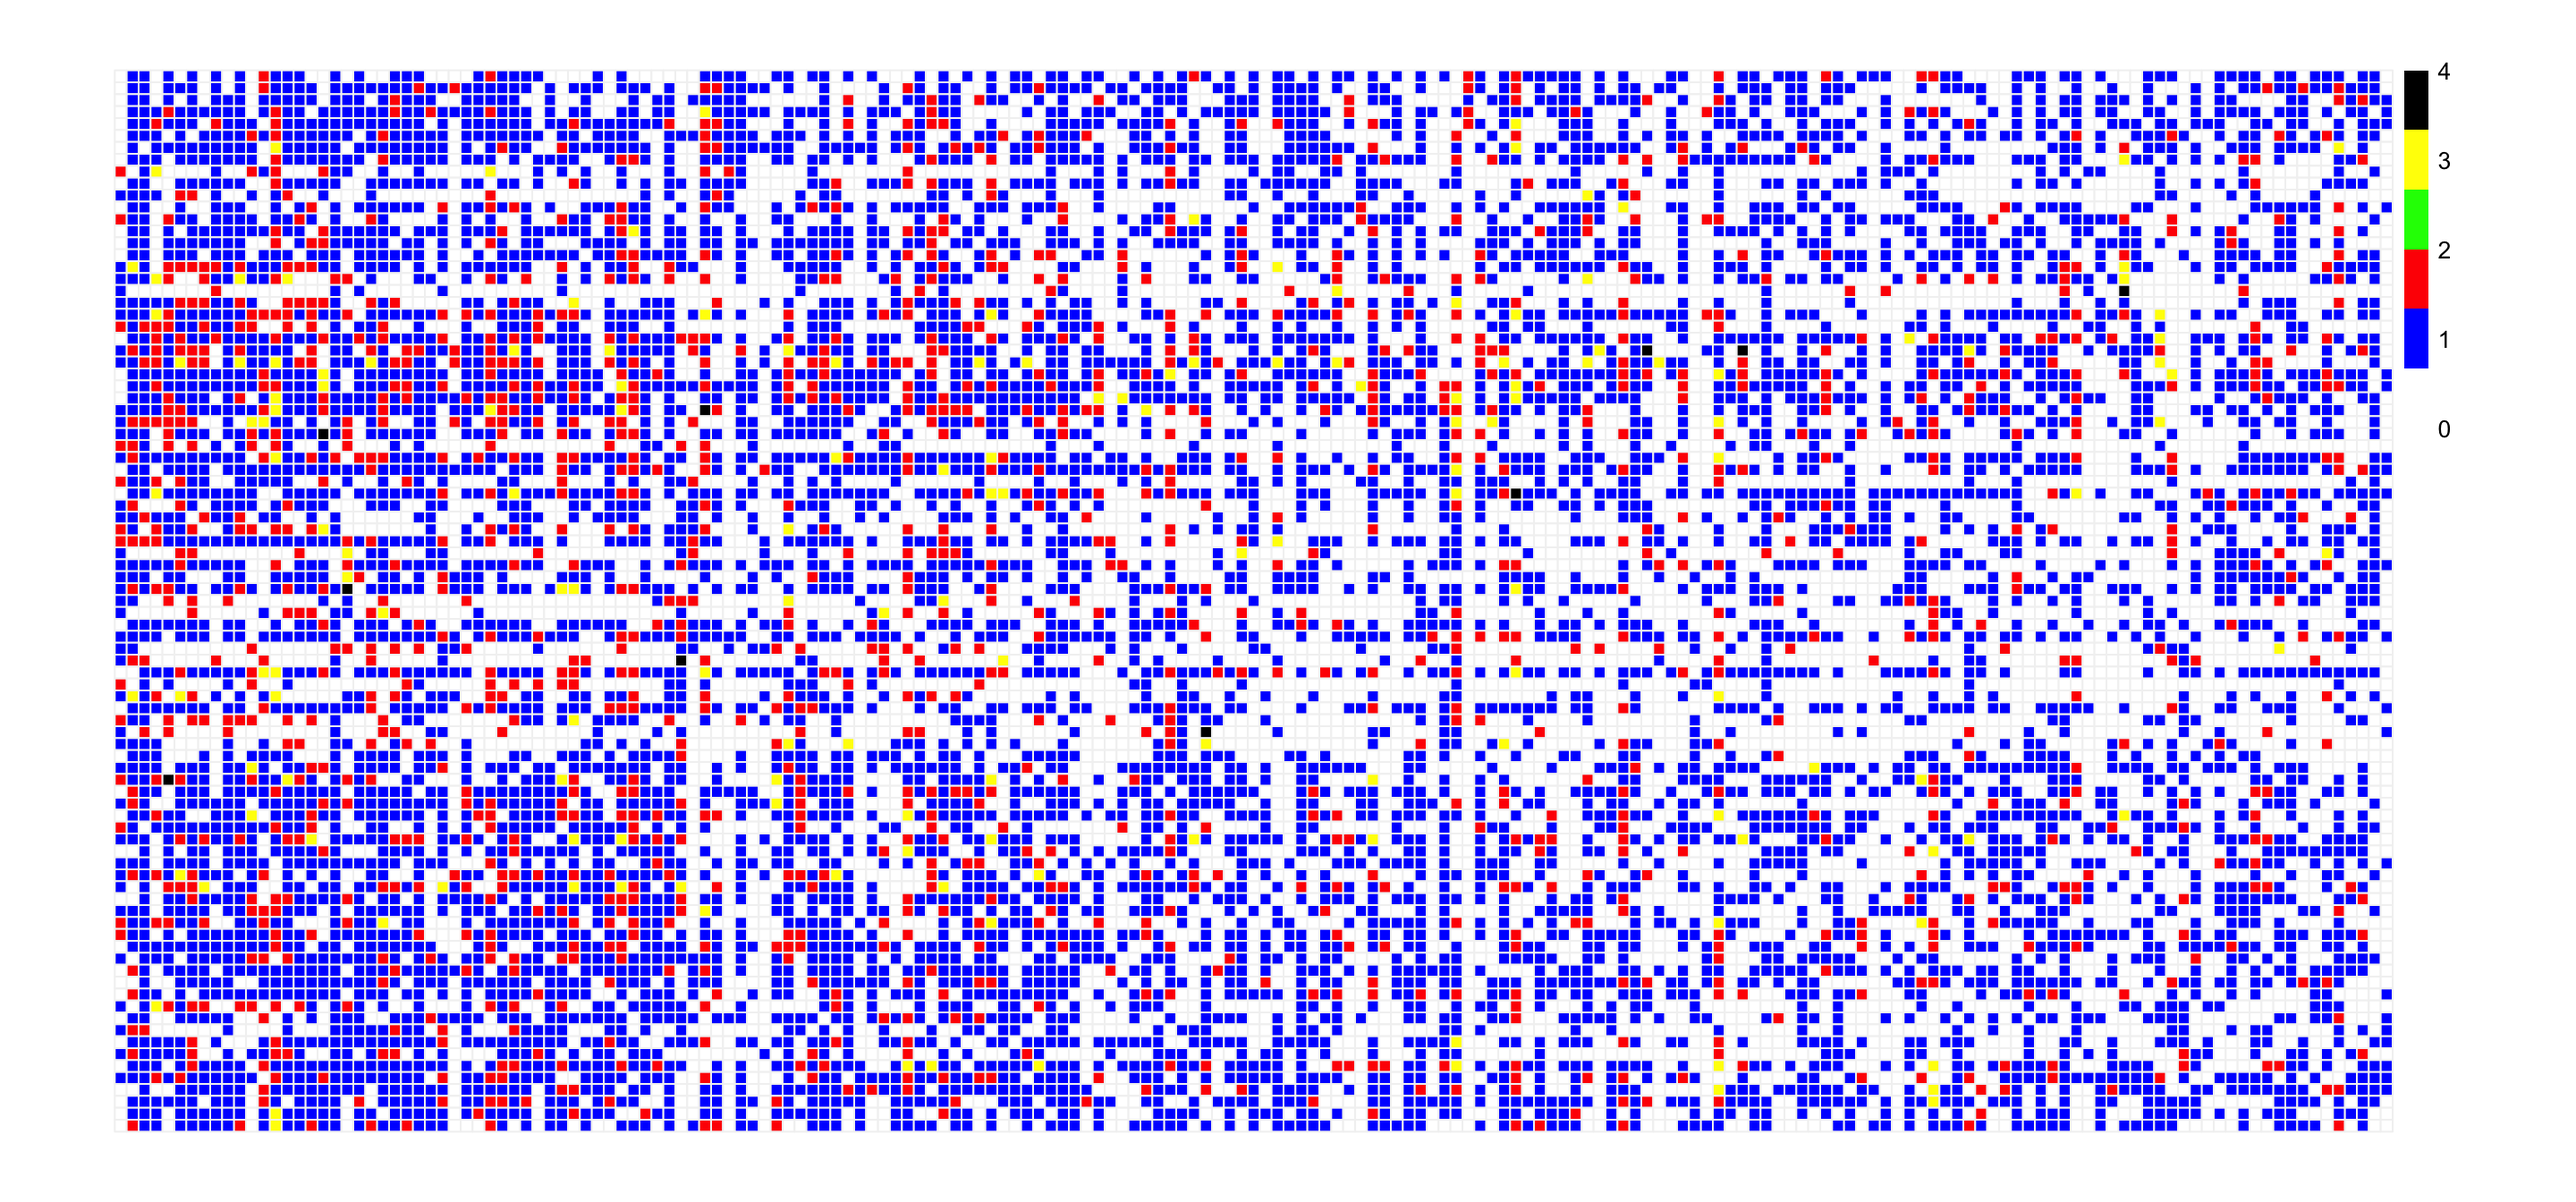
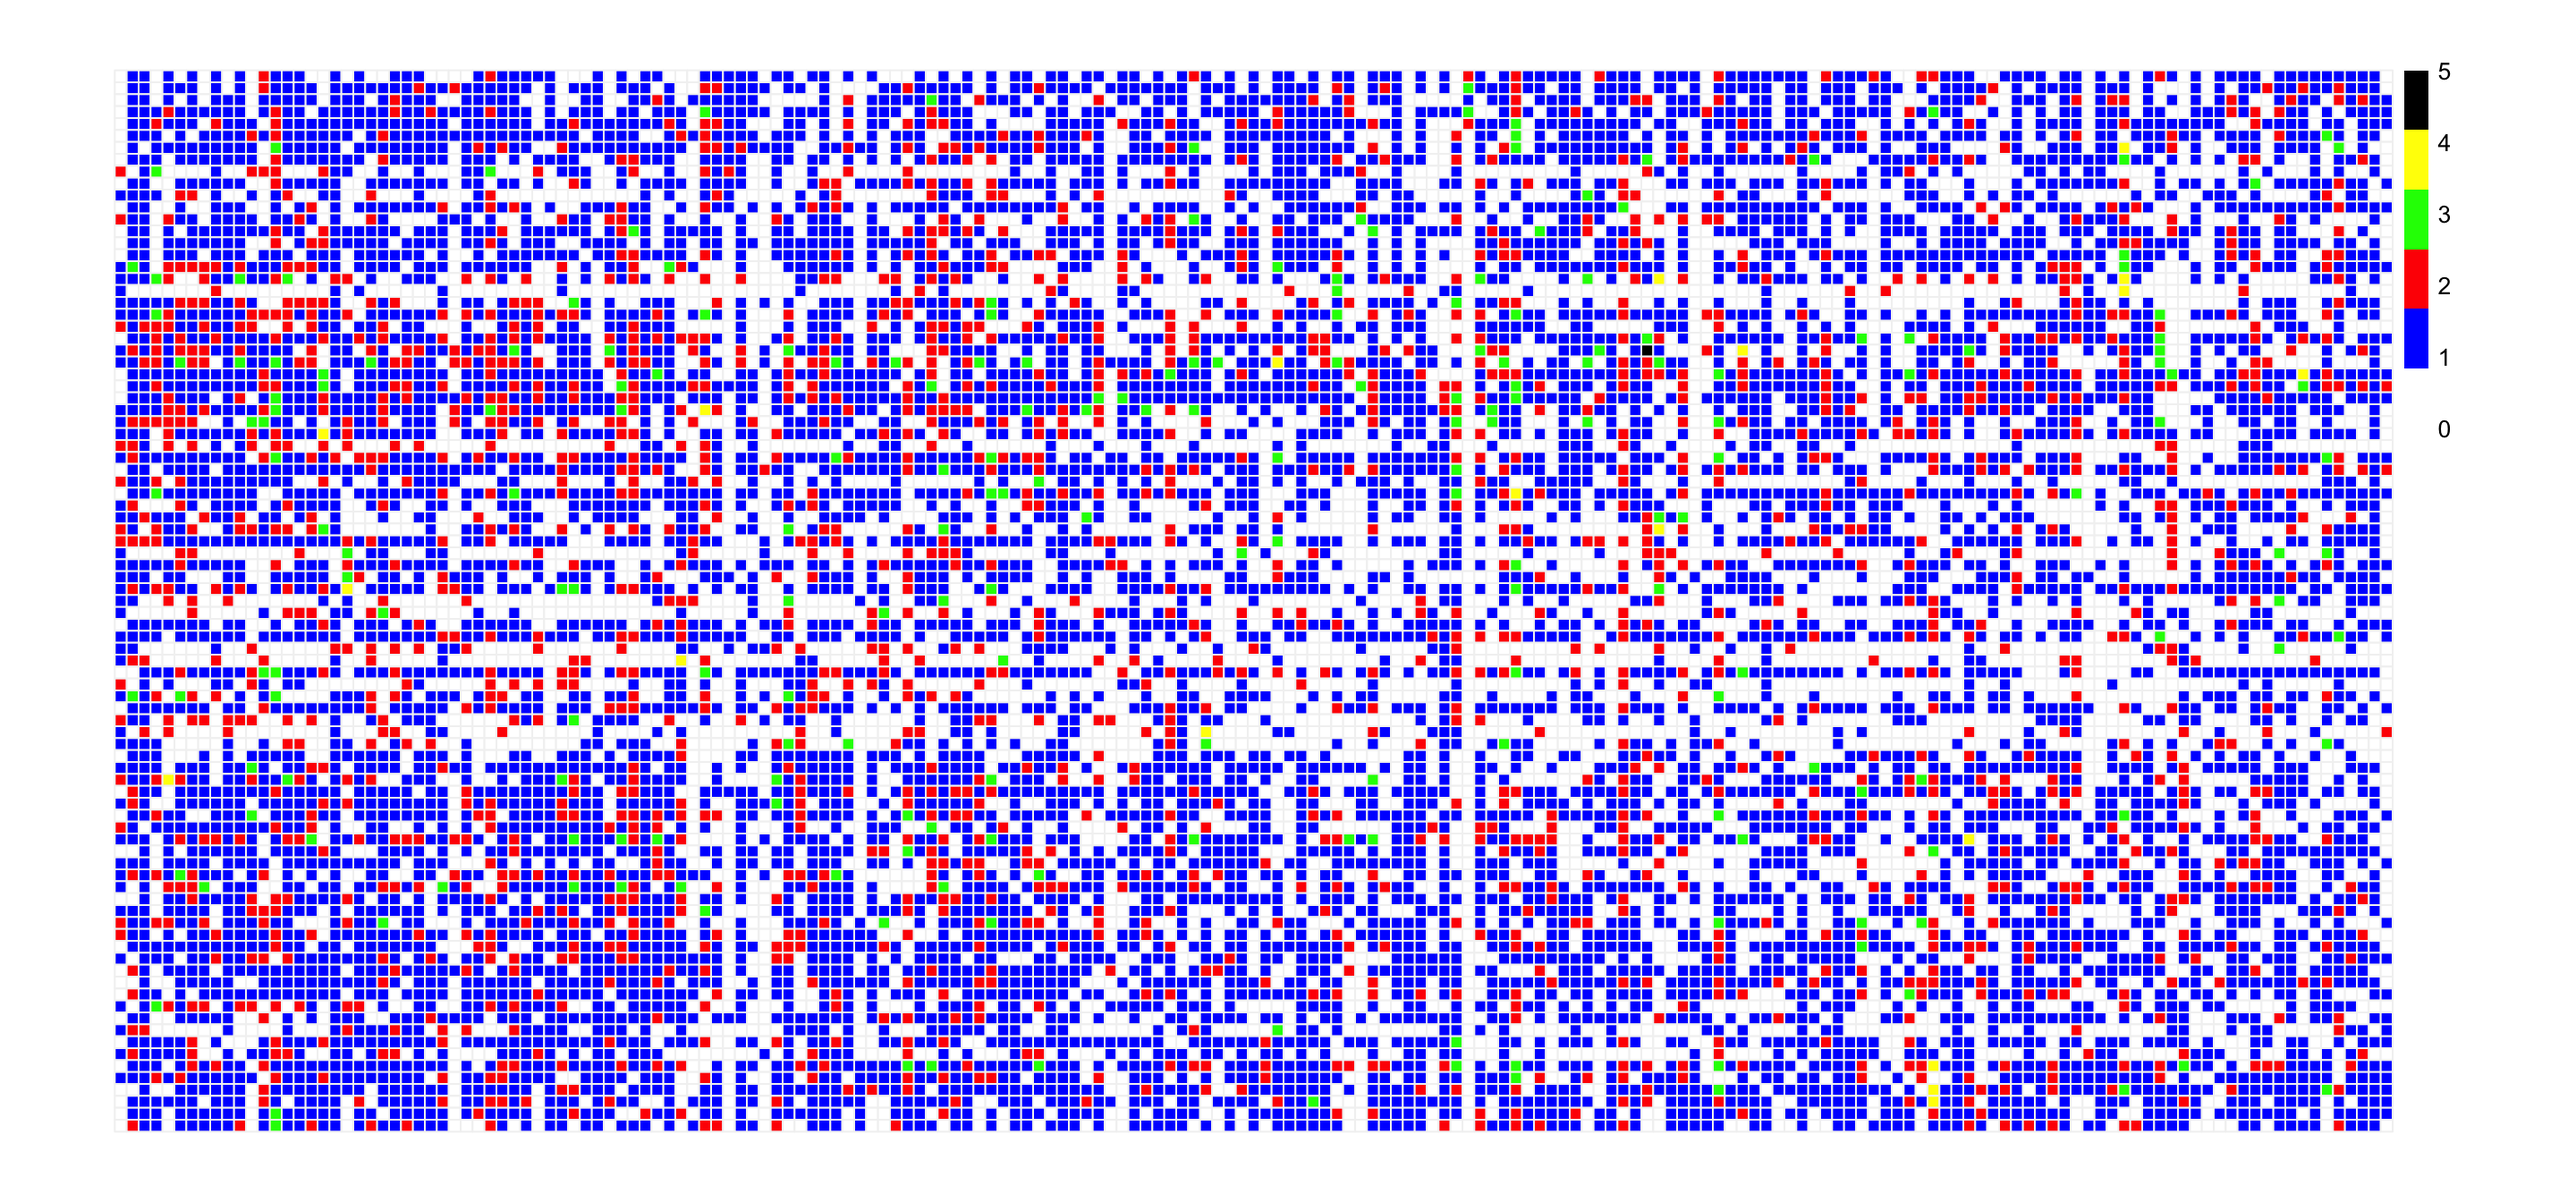
Build site.

diff --git a/docs/191factors.html b/docs/191factors.html
@@ -503,10 +503,10 @@ This reproducible <a href="http://rmarkdown.rstudio.com">R Markdown</a> analysis
 <div class="panel panel-default">
 <div class="panel-heading">
 <p class="panel-title">
-<a data-toggle="collapse" data-parent="#workflowr-checks" href="#strongRepositoryversionstrongahrefhttpsgithubcomjoonsukkangaainttree725798c8991bebcb19d70377eac98a135bed9115targetblank725798ca"> <span class="glyphicon glyphicon-ok text-success" aria-hidden="true"></span> <strong>Repository version:</strong> <a href="https://github.com/joonsukkang/aaint/tree/725798c8991bebcb19d70377eac98a135bed9115" target="_blank">725798c</a> </a>
+<a data-toggle="collapse" data-parent="#workflowr-checks" href="#strongRepositoryversionstrongahrefhttpsgithubcomjoonsukkangaainttree220f4e293ac77bca07abcf6140917fe6ec7c8211targetblank220f4e2a"> <span class="glyphicon glyphicon-ok text-success" aria-hidden="true"></span> <strong>Repository version:</strong> <a href="https://github.com/joonsukkang/aaint/tree/220f4e293ac77bca07abcf6140917fe6ec7c8211" target="_blank">220f4e2</a> </a>
 </p>
 </div>
[2 lines of base64/hex data omitted]
 <div class="panel-body">
 <p>
 Great! You are using Git for version control. Tracking code development and connecting the code version to the results is critical for reproducibility. The version displayed above was the version of the Git repository at the time these results were generated. <br><br> Note that you need to be careful to ensure that all relevant files for the analysis have been committed to Git prior to generating the results (you can use <code>wflow_publish</code> or <code>wflow_git_commit</code>). workflowr only checks the R Markdown file, but you know if there are other scripts or data files that it depends on. Below is the status of the Git repository when the results were generated:
@@ -552,7 +552,6 @@ Untracked files:
 Unstaged changes:
     Modified:   analysis/_site.yml
     Modified:   analysis/flash.Rmd
-    Modified:   analysis/index.Rmd
 
 </code></pre>
 <p>
@@ -596,6 +595,40 @@ Message
 Rmd
 </td>
 <td>
+<a href="https://github.com/joonsukkang/aaint/blob/220f4e293ac77bca07abcf6140917fe6ec7c8211/analysis/191factors.Rmd" target="_blank">220f4e2</a>
+</td>
+<td>
+Joonsuk Kang
+</td>
+<td>
+2020-04-01
+</td>
+<td>
+Investigating the 191 PDZ factors
+</td>
+</tr>
+<tr>
+<td>
+html
+</td>
+<td>
+<a href="https://rawcdn.githack.com/joonsukkang/aaint/679fd0d88b645f55f7ec5be2218456f732831d62/docs/191factors.html" target="_blank">679fd0d</a>
+</td>
+<td>
+Joonsuk Kang
+</td>
+<td>
+2020-04-01
+</td>
+<td>
+Build site.
+</td>
+</tr>
+<tr>
+<td>
+Rmd
+</td>
+<td>
 <a href="https://github.com/joonsukkang/aaint/blob/725798c8991bebcb19d70377eac98a135bed9115/analysis/191factors.Rmd" target="_blank">725798c</a>
 </td>
 <td>
@@ -618,7 +651,6 @@ Investigating the 191 PDZ factors
 <p>This article investigate the 191 factors for PDZ domain data fitted with point normal flashier in <a href="lowrank.html">Tackling Low-rankness of Estimated Precision Matrix</a></p>
 <div id="data" class="section level1">
 <h1>Data</h1>
-<p>The estimates with local false sign rate greater than 0.05 are replaced with zero.</p>
 <pre class="r"><code>library(tidyverse); library(flashier); library(RColorBrewer); library(gridExtra)</code></pre>
 <pre><code>── Attaching packages ────────────────────────────────────────────────────────────────────────────── tidyverse 1.3.0 ──</code></pre>
 <pre><code>✓ ggplot2 3.3.0     ✓ purrr   0.3.3
@@ -635,8 +667,6 @@ Attaching package: &#39;gridExtra&#39;</code></pre>
     combine</code></pre>
 <pre class="r"><code>fit &lt;- readRDS(&quot;output/fit_flashier_f200.rds&quot;)
 f &lt;- t(fit$loadings.pm[[2]])
-f.lfsr &lt;- t(fit$loadings.lfsr[[2]]) # local false sign rate
-f[f.lfsr&gt;0.05] &lt;- 0
 col.idx &lt;- matrix(as.numeric(unlist(strsplit(substr(colnames(f),2,100), &quot;_&quot;))), byrow=TRUE, ncol=2)</code></pre>
 </div>
 <div id="sample-figure" class="section level1">
@@ -658,6 +688,43 @@ pheatmap::pheatmap(mat.f, cluster_rows=FALSE, cluster_cols=FALSE, cellwidth=5,ce
                    breaks = breaksList
                    )</code></pre>
 <p><img src="figure/191factors.Rmd/unnamed-chunk-2-1.png" width="672" style="display: block; margin: auto;" /></p>
+<p>
+<button type="button" class="btn btn-default btn-xs btn-workflowr btn-workflowr-fig" data-toggle="collapse" data-target="#fig-unnamed-chunk-2-1">
+Past versions of unnamed-chunk-2-1.png
+</button>
+</p>
+<div id="fig-unnamed-chunk-2-1" class="collapse">
+<div class="table-responsive">
+<table class="table table-condensed table-hover">
+<thead>
+<tr>
+<th>
+Version
+</th>
+<th>
+Author
+</th>
+<th>
+Date
+</th>
+</tr>
+</thead>
+<tbody>
+<tr>
+<td>
+<a href="https://github.com/joonsukkang/aaint/blob/679fd0d88b645f55f7ec5be2218456f732831d62/docs/figure/191factors.Rmd/unnamed-chunk-2-1.png" target="_blank">679fd0d</a>
+</td>
+<td>
+Joonsuk Kang
+</td>
+<td>
+2020-04-01
+</td>
+</tr>
+</tbody>
+</table>
+</div>
+</div>
 </div>
 <div id="count" class="section level1">
 <h1>Count</h1>
@@ -688,12 +755,49 @@ pheatmap::pheatmap(f.count, cluster_rows=FALSE, cluster_cols=FALSE,
                    color=colpal2, border_color=&quot;grey95&quot;
                    )</code></pre>
 <p><img src="figure/191factors.Rmd/unnamed-chunk-3-1.png" width="1440" style="display: block; margin: auto;" /></p>
+<p>
+<button type="button" class="btn btn-default btn-xs btn-workflowr btn-workflowr-fig" data-toggle="collapse" data-target="#fig-unnamed-chunk-3-1">
+Past versions of unnamed-chunk-3-1.png
+</button>
+</p>
+<div id="fig-unnamed-chunk-3-1" class="collapse">
+<div class="table-responsive">
+<table class="table table-condensed table-hover">
+<thead>
+<tr>
+<th>
+Version
+</th>
+<th>
+Author
+</th>
+<th>
+Date
+</th>
+</tr>
+</thead>
+<tbody>
+<tr>
+<td>
+<a href="https://github.com/joonsukkang/aaint/blob/679fd0d88b645f55f7ec5be2218456f732831d62/docs/figure/191factors.Rmd/unnamed-chunk-3-1.png" target="_blank">679fd0d</a>
+</td>
+<td>
+Joonsuk Kang
+</td>
+<td>
+2020-04-01
+</td>
+</tr>
+</tbody>
+</table>
+</div>
+</div>
 </div>
 <div id="cutoff-top-100" class="section level3">
 <h3>Cutoff: top 100</h3>
 <p>Alternatively, use relative threshold (top 100) instead of absolute threshold of 0.05.</p>
 <p>For each factor, classify top 100 largest values as 1 and 0 otherwise. Then, for each factor, count the number of 1’s in each position. Each column corresponds to one of the 191 factors and each row to one of the 89 positions.</p>
-<p>Note: 0=white, 1=blue, 2=red, 3=green, 4=yellow, 5=black, 6=gold, 7=orange, 8=pink (maximum)</p>
+<p>Note: 0=white, 1=blue, 2=red, 3=green, 4=yellow, 5=black, 6=orange (maximum)</p>
 <pre class="r"><code>f.t100 &lt;- abs(f)
 
 # create count data
@@ -712,13 +816,50 @@ for (i in 1:nrow(f)){
 
 # plot
 #breaksList2 = seq(0,8,by=1)
-colpal2 &lt;- c(&#39;white&#39;, &#39;blue&#39;, &#39;red&#39;, &#39;green&#39;, &#39;yellow&#39;, &#39;black&#39;, &#39;gold&#39;, &#39;orange&#39;, &#39;pink&#39;)
+colpal2 &lt;- c(&#39;white&#39;, &#39;blue&#39;, &#39;red&#39;, &#39;green&#39;, &#39;yellow&#39;, &#39;black&#39;, &#39;orange&#39;)
 
 pheatmap::pheatmap(f.count, cluster_rows=FALSE, cluster_cols=FALSE,
                    cellwidth=5, cellheight=5,
                    color=colpal2, border_color=&quot;grey95&quot;
                    )</code></pre>
 <p><img src="figure/191factors.Rmd/unnamed-chunk-4-1.png" width="1440" style="display: block; margin: auto;" /></p>
+<p>
+<button type="button" class="btn btn-default btn-xs btn-workflowr btn-workflowr-fig" data-toggle="collapse" data-target="#fig-unnamed-chunk-4-1">
+Past versions of unnamed-chunk-4-1.png
+</button>
+</p>
+<div id="fig-unnamed-chunk-4-1" class="collapse">
+<div class="table-responsive">
+<table class="table table-condensed table-hover">
+<thead>
+<tr>
+<th>
+Version
+</th>
+<th>
+Author
+</th>
+<th>
+Date
+</th>
+</tr>
+</thead>
+<tbody>
+<tr>
+<td>
+<a href="https://github.com/joonsukkang/aaint/blob/679fd0d88b645f55f7ec5be2218456f732831d62/docs/figure/191factors.Rmd/unnamed-chunk-4-1.png" target="_blank">679fd0d</a>
+</td>
+<td>
+Joonsuk Kang
+</td>
+<td>
+2020-04-01
+</td>
+</tr>
+</tbody>
+</table>
+</div>
+</div>
 </div>
 </div>
 <div id="the-catalog" class="section level1">
@@ -739,6 +880,43 @@ for (i in 1:nrow(f)){
 }
 grid.arrange(arrangeGrob(grobs= plot_list,ncol=10))</code></pre>
 <p><img src="figure/191factors.Rmd/unnamed-chunk-5-1.png" width="960" style="display: block; margin: auto;" /></p>
+<p>
+<button type="button" class="btn btn-default btn-xs btn-workflowr btn-workflowr-fig" data-toggle="collapse" data-target="#fig-unnamed-chunk-5-1">
+Past versions of unnamed-chunk-5-1.png
+</button>
+</p>
+<div id="fig-unnamed-chunk-5-1" class="collapse">
+<div class="table-responsive">
+<table class="table table-condensed table-hover">
+<thead>
+<tr>
+<th>
+Version
+</th>
+<th>
+Author
+</th>
+<th>
+Date
+</th>
+</tr>
+</thead>
+<tbody>
+<tr>
+<td>
+<a href="https://github.com/joonsukkang/aaint/blob/679fd0d88b645f55f7ec5be2218456f732831d62/docs/figure/191factors.Rmd/unnamed-chunk-5-1.png" target="_blank">679fd0d</a>
+</td>
+<td>
+Joonsuk Kang
+</td>
+<td>
+2020-04-01
+</td>
+</tr>
+</tbody>
+</table>
+</div>
+</div>
 <br>
 <p>
 <button type="button" class="btn btn-default btn-workflowr btn-workflowr-sessioninfo" data-toggle="collapse" data-target="#workflowr-sessioninfo" style="display: block;">

diff --git a/docs/index.html b/docs/index.html
@@ -333,7 +333,7 @@ div.section {
 <div class="tab-content">
 <div id="summary" class="tab-pane fade in active">
 <p>
-<strong>Last updated:</strong> 2020-03-31
+<strong>Last updated:</strong> 2020-04-01
 </p>
 <p>
 <strong>Checks:</strong> <span class="glyphicon glyphicon-ok text-success" aria-hidden="true"></span> 2 <span class="glyphicon glyphicon-exclamation-sign text-danger" aria-hidden="true"></span> 0
@@ -364,10 +364,10 @@ This reproducible <a href="http://rmarkdown.rstudio.com">R Markdown</a> analysis
 <div class="panel panel-default">
 <div class="panel-heading">
 <p class="panel-title">
-<a data-toggle="collapse" data-parent="#workflowr-checks" href="#strongRepositoryversionstrongahrefhttpsgithubcomjoonsukkangaainttree6a70d2a920285032fec4c4aec1bbdd2b731d18e4targetblank6a70d2aa"> <span class="glyphicon glyphicon-ok text-success" aria-hidden="true"></span> <strong>Repository version:</strong> <a href="https://github.com/joonsukkang/aaint/tree/6a70d2a920285032fec4c4aec1bbdd2b731d18e4" target="_blank">6a70d2a</a> </a>
+<a data-toggle="collapse" data-parent="#workflowr-checks" href="#strongRepositoryversionstrongahrefhttpsgithubcomjoonsukkangaainttree220f4e293ac77bca07abcf6140917fe6ec7c8211targetblank220f4e2a"> <span class="glyphicon glyphicon-ok text-success" aria-hidden="true"></span> <strong>Repository version:</strong> <a href="https://github.com/joonsukkang/aaint/tree/220f4e293ac77bca07abcf6140917fe6ec7c8211" target="_blank">220f4e2</a> </a>
 </p>
 </div>
[2 lines of base64/hex data omitted]
 <div class="panel-body">
 <p>
 Great! You are using Git for version control. Tracking code development and connecting the code version to the results is critical for reproducibility. The version displayed above was the version of the Git repository at the time these results were generated. <br><br> Note that you need to be careful to ensure that all relevant files for the analysis have been committed to Git prior to generating the results (you can use <code>wflow_publish</code> or <code>wflow_git_commit</code>). workflowr only checks the R Markdown file, but you know if there are other scripts or data files that it depends on. Below is the status of the Git repository when the results were generated:
@@ -451,6 +451,40 @@ Message
 </tr>
 </thead>
 <tbody>
+<tr>
+<td>
+Rmd
+</td>
+<td>
+<a href="https://github.com/joonsukkang/aaint/blob/220f4e293ac77bca07abcf6140917fe6ec7c8211/analysis/index.Rmd" target="_blank">220f4e2</a>
+</td>
+<td>
+Joonsuk Kang
+</td>
+<td>
+2020-04-01
+</td>
+<td>
+Investigating the 191 PDZ factors
+</td>
+</tr>
+<tr>
+<td>
+html
+</td>
+<td>
+<a href="https://rawcdn.githack.com/joonsukkang/aaint/110b2c61be4d40cf1d347673640b05b61cb41fc8/docs/index.html" target="_blank">110b2c6</a>
+</td>
+<td>
+Joonsuk Kang
+</td>
+<td>
+2020-03-31
+</td>
+<td>
+Build site.
+</td>
+</tr>
 <tr>
 <td>
 Rmd
@@ -816,8 +850,8 @@ Start workflowr project.
 </div>
 </div>
 <div id="toy-data" class="section level2">
-<h2>Toy data</h2>
-<p>Setting: N=300 sequences; L=20 positions; q=10 potts-states</p>
+<h2>toy data</h2>
+<p>setting: N=300 sequences; L=20 positions; q=10 potts-states</p>
 <div style="display: flex;">
 <div style="min-width: 300px; max-width: 300px">
 <p><img src="https://joonsukkang.github.io/aaint/figure/flash.Rmd/unnamed-chunk-6-1.png" width="400"></p>
@@ -867,7 +901,7 @@ Start workflowr project.
 </div>
 <div>
 <ul>
-<li>Ten More Toy Data: <a href="toy10.html">toy10</a>
+<li>ten more toy data: <a href="toy10.html">toy10</a>
 <ul>
 <li>due to small sample size, the estimate differs significantly by input data, which are drawn iid from the same data generating process.<br />
 </li>
@@ -883,8 +917,8 @@ Start workflowr project.
 </div>
 </div>
 <div id="pdz-data" class="section level2">
-<h2>PDZ data</h2>
-<p>Setting: N=1,692 sequences; L=89 positions; q=21 potts-states</p>
+<h2>pdz data</h2>
+<p>setting: N=1,692 sequences; L=89 positions; q=21 potts-states</p>
 <div style="display: flex;">
 <div style="min-width: 300px; max-width: 300px">
 <p><img src="https://joonsukkang.github.io/aaint/figure/lowrank.Rmd/flashier_f200-2.png" width="400"></p>
@@ -899,8 +933,22 @@ Start workflowr project.
 </ul></li>
 <li>tackling low-rankness of estimated precision matrix: <a href="lowrank.html">lowrank</a>
 <ul>
-<li>The model with 191 factors (previously from 50) was estimated when allowed up to 200 factors. And the streaks are all gone</li>
-<li>Sampling from posterior distribution or thresholding with local false sign rate did not help much in removing the low-rankness of the compressed precision matrix (with 50 factors)</li>
+<li>the model with 191 factors (previously from 50) was estimated when allowed up to 200 factors. And the streaks are all gone</li>
+<li>sampling from posterior distribution or thresholding with local false sign rate did not help much in removing the low-rankness of the compressed precision matrix (with 50 factors)</li>
+</ul></li>
+</ul>
+</div>
+</div>
+<div style="display: flex;">
+<div style="min-width: 300px; max-width: 300px">
+<p><img src="https://joonsukkang.github.io/aaint/figure/191factors.Rmd/unnamed-chunk-3-1.png" width="400"></p>
+</div>
+<div>
+<ul>
+<li>investigating the 191 pdz factors: <a href="191factors.html">191factors</a>
+<ul>
+<li>a factor typically has zero or one strong signal associated with a position, sometimes two signals, and rarely more than that</li>
+<li>the catalogue of all 191 pdz factors is provided</li>
 </ul></li>
 </ul>
 </div>
